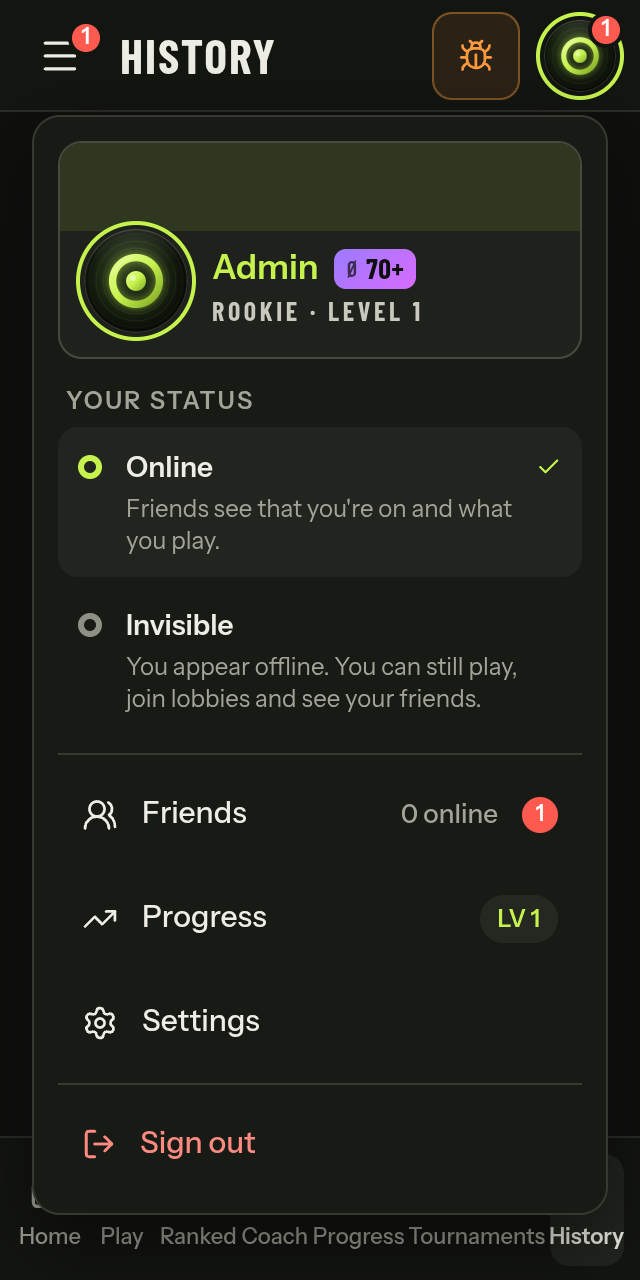
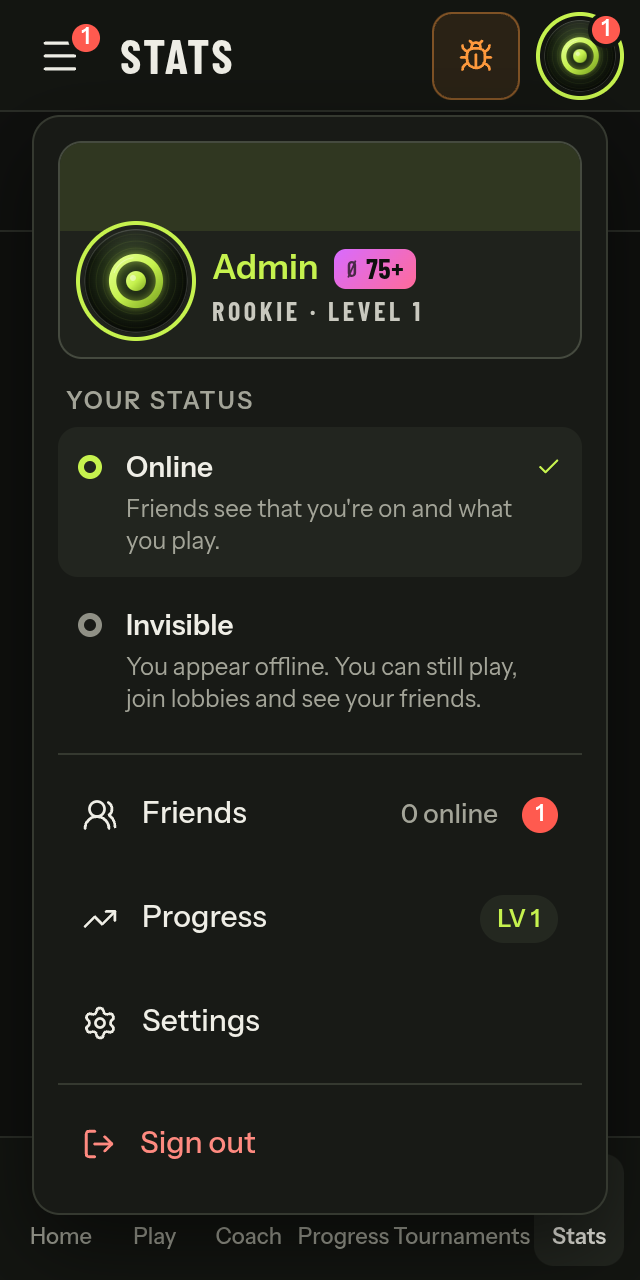
docs(nav): before and after screenshots of the play and stats tabs

diff --git a/e2e/screenshots/39-nav-cleanup.spec.ts b/e2e/screenshots/39-nav-cleanup.spec.ts
@@ -1,0 +1,52 @@
+import fs from 'fs'
+import { test, expect } from '@playwright/test'
+import { open, openHash, shot } from './helpers.js'
+import type { View } from './helpers.js'
+
+// The Play hub (New game, Ranked, Missions tabs) and Stats with its History tab, plus the navs they
+// changed: docs/nav-cleanup/<size>-<scene>.png. NAV_SHOTS=before takes the same scenes on the old
+// pages (prefix `before-`): Matchmaking and History were their own pages then.
+
+const before = process.env.NAV_SHOTS === 'before'
+const STATS = JSON.parse(fs.readFileSync(new URL('./stats-x01.json', import.meta.url), 'utf8')) as Record<string, unknown>
+const SIZES = {
+  desktop: { width: 1440, height: 900, scale: 1 },
+  tablet: { width: 820, height: 1180, scale: 1 },
+  phone: { width: 390, height: 844, scale: 2 },
+} satisfies Record<string, View>
+const SCENES = {
+  'play-new-game': '/play',
+  'play-ranked': before ? '/matchmaking' : '/play/ranked',
+  'play-missions': '/play/missions',
+  'stats-overview': '/stats',
+  'stats-history': before ? '/history' : '/stats/history',
+}
+// Portrait iPad (the 820 one is `tablet`): the Play page's game cards, two a row
+const IPAD_768 = { width: 768, height: 1024, scale: 1 } satisfies View
+const file = (size: string, scene: string) => `nav-cleanup/${before ? 'before-' : ''}${size}-${scene}.png`
+
+for (const [size, view] of Object.entries(SIZES)) {
+  test(`${size}: the Play and Stats tabs`, async ({ browser }) => {
+    const { ctx, page } = await open(browser, 'admin', view)
+    await page.route('**/api/stats/x01*', route => route.fulfill({ json: STATS }))
+    for (const [scene, hash] of Object.entries(SCENES)) {
+      await openHash(page, hash)
+      if (!before && scene.startsWith('play-')) await expect(page.getByRole('navigation', { name: 'Play' })).toBeVisible()
+      if (!before && scene.startsWith('stats-')) await expect(page.getByRole('navigation', { name: 'Stats' })).toBeVisible()
+      await shot(page, file(size, scene), { settle: 600 })
+    }
+    if (size === 'tablet') {
+      const ipad = await open(browser, 'admin', IPAD_768)
+      await openHash(ipad.page, '/play')
+      await shot(ipad.page, file('tablet-768', 'play-new-game'), { settle: 600 })
+      await ipad.ctx.close()
+    }
+    if (size === 'phone') {
+      await openHash(page, SCENES['stats-history'])
+      await page.getByRole('button', { name: 'Menu' }).click()
+      await expect(page.getByRole('dialog')).toBeVisible()
+      await shot(page, file(size, 'menu'), { settle: 400 })
+    }
+    await ctx.close()
+  })
+}
